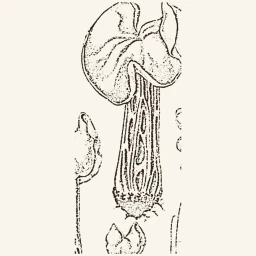
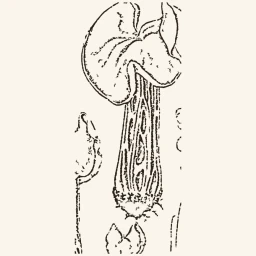
Disegni dei caratteri: un solo stile, a tratto nero dalle tavole storiche
Claude-Session: https://claude.ai/code/session_01GGv8FyptAS5oho84qSgtic

diff --git a/associazione/impara/index.html b/associazione/impara/index.html
@@ -190,7 +190,7 @@ h1 { margin: 0; font: 700 clamp(26px, 5vw, 34px)/1.1 var(--f-display); letter-sp
 .item span { display: block; color: var(--muted); font-size: 13.5px; line-height: 1.4; }
 .ic { flex: none; width: 108px; height: auto; }
 img.ic-img { width: 108px; height: 108px; object-fit: cover; border-radius: 10px; background: #FAF5EC; border: 1px solid var(--line); display: block; }
-.chip-ic img.ic-img { width: 52px; height: 52px; border-radius: 8px; }
+.chip-ic img.ic-img { width: 52px; height: 52px; border-radius: 8px; filter: contrast(1.8) brightness(.95); }
 .ic-src { display: block; font-size: 11.5px; color: var(--muted); margin-top: 2px; }
 .dsw { display: flex; flex-wrap: wrap; gap: 8px 16px; align-items: center; justify-content: space-between; }
 .dsw h2 { margin: 0; }
@@ -2602,10 +2602,9 @@ ICONS["forma:stella"] = svgI(120, 100, P("M60 42L72 12L80 40L108 30L92 54L114 68
 
 
 var PIMG = {"him:lamelle": ["Bresadola 1906", "Agaricus campestris"], "him:tubuli": ["Bresadola 1906", "Suillus granulatus"], "him:aculei": ["Bresadola 1906", "Hydnum repandum"], "him:pieghe": ["Bresadola 1906", "Cantharellus cibarius"], "him:liscio": ["Bresadola 1906", "Craterellus cornucopioides"], "him:gleba": ["Bresadola 1906", "Lycoperdon utriforme"], "vol:libera": ["Bresadola 1906", "Amanita caesarea"], "base:no": ["Bresadola 1906", "Russula cyanoxantha"], "ann:ampio": ["Bresadola 1906", "Amanita phalloides"], "ann:mobile": ["Bresadola 1906", "Macrolepiota procera"], "ann:nessuno": ["Bresadola 1906", "Russula cyanoxantha"], "forma:alveolato": ["Bresadola 1906", "Morchella esculenta"], "forma:cervello": ["Bresadola 1906", "Gyromitra esculenta"], "forma:coppa": ["Vittadini 1835", "Helvella acetabulum"], "forma:corallo": ["Bresadola 1906", "Ramaria botrytis"], "forma:sella": ["Bresadola 1906", "Helvella crispa"], "forma:tartufo": ["Bresadola 1906", "Tuber melanosporum"], "gam:laterale": ["Inzenga 1865", "Pleurotus ostreatus"], "gam:reticolato": ["Bresadola 1906", "Suillellus luridus"], "cap:convesso": ["Bresadola 1906", "Boletus edulis"], "cap:imbutiforme": ["Bresadola 1906", "Infundibulicybe geotropa"]};
-var DSTYLE = "colore";
-try { var _ds = localStorage.getItem("inz-disegni"); if (_ds === "tratto" || _ds === "colore") DSTYLE = _ds; } catch (e) {}
+var DSTYLE = "tratto";
 function icon(k, mode) {
-  if (k && PIMG[k]) { var m = mode || "colore"; return '<img class="ic ic-img" loading="lazy" src="caratteri/' + k.replace(":", "-") + "-" + m + '.webp" alt="" title="Tavola di ' + PIMG[k][0] + ": " + PIMG[k][1] + '">'; }
+  if (k && PIMG[k]) { var m = "tratto"; return '<img class="ic ic-img" loading="lazy" src="caratteri/' + k.replace(":", "-") + "-" + m + '.webp" alt="" title="Tavola di ' + PIMG[k][0] + ": " + PIMG[k][1] + '">'; }
   return k && ICONS[k] ? ICONS[k] : "";
 }
 var IM = {
@@ -2944,7 +2943,7 @@ function renderParts() {
     return '<button class="part-btn" type="button" data-part="' + p.id + '" aria-pressed="' + (p.id === curPart) + '">' + esc(p.nome) + "</button>";
   }).join("");
   var p = PARTS.filter(function (x) { return x.id === curPart; })[0];
-  var h = '<div class="dsw"><h2>' + esc(p.nome) + '</h2><div class="dsw-b" role="group" aria-label="Stile dei disegni"><button type="button" data-dstyle="colore" aria-pressed="' + (DSTYLE === "colore") + '">A colori</button><button type="button" data-dstyle="tratto" aria-pressed="' + (DSTYLE === "tratto") + '">A tratto</button></div></div><p class="intro">' + esc(p.intro) + "</p>";
+  var h = '<div class="dsw"><h2>' + esc(p.nome) + '</h2></div><p class="intro">' + esc(p.intro) + "</p>";
   p.gruppi.forEach(function (g) {
     h += '<div class="grp"><h4>' + esc(g.t) + '</h4><div class="items">';
     g.v.forEach(function (v) { var ex = EX[p.id + "/" + v[0]];
